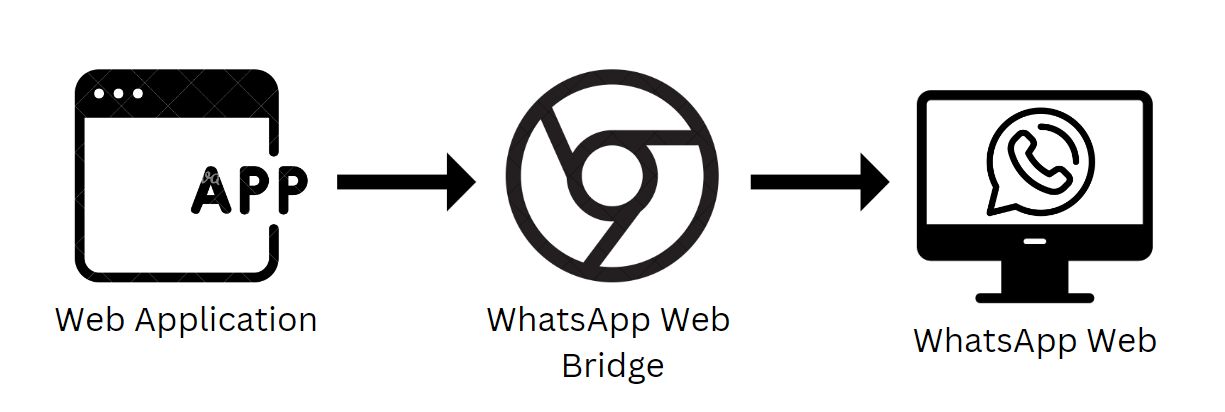
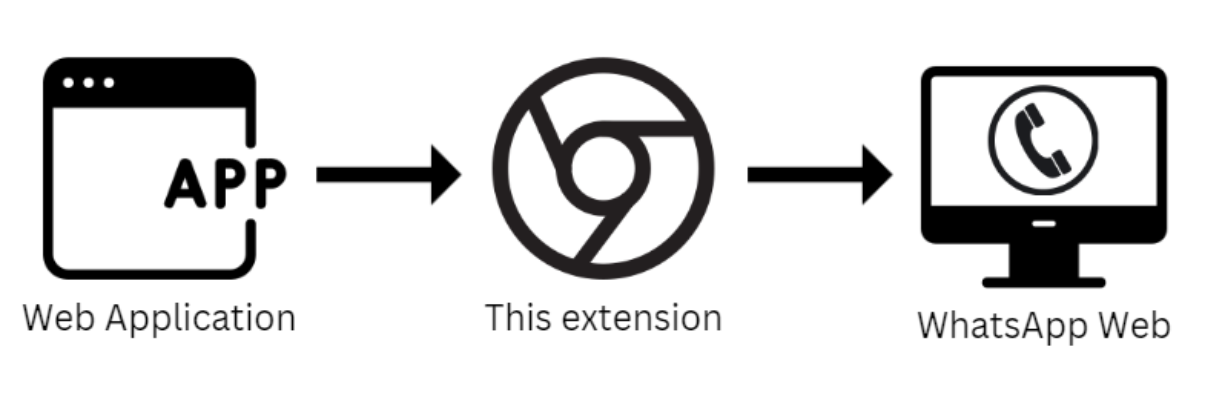
changed extenstion name

diff --git a/src/moduleraid.js b/src/moduleraid.js
@@ -21,7 +21,7 @@ const moduleRaid = function () {
   // }
 
   fillModuleArray = function() {
-    if (parseFloat(window.Debug.VERSION) < 2.3) {
+    if (parseFloat(window?.Debug?.VERSION) < 2.3) {
       (window.webpackChunkbuild || window.webpackChunkwhatsapp_web_client).push([
         [moduleRaid.mID], {}, function(e) {
           Object.keys(e.m).forEach(function(mod) {

diff --git a/src/util/whatsapp.js b/src/util/whatsapp.js
@@ -1,6 +1,6 @@
 let interval = null;
 interval = setInterval(function() {
-    if(window.mR === undefined) {
+    if(window?.Store?.AppState === undefined) {
         console.log("trying to load events")
         setWindowStore();
     }

diff --git a/popup.html b/popup.html
@@ -1,4 +1,4 @@
-<h3>Send WhatsApp Message</h3>
+<h3>Send WA Message</h3>
 <div>
     <label>Mobile Number</label>
     <input type="number" name="mobile" id="mobile">
